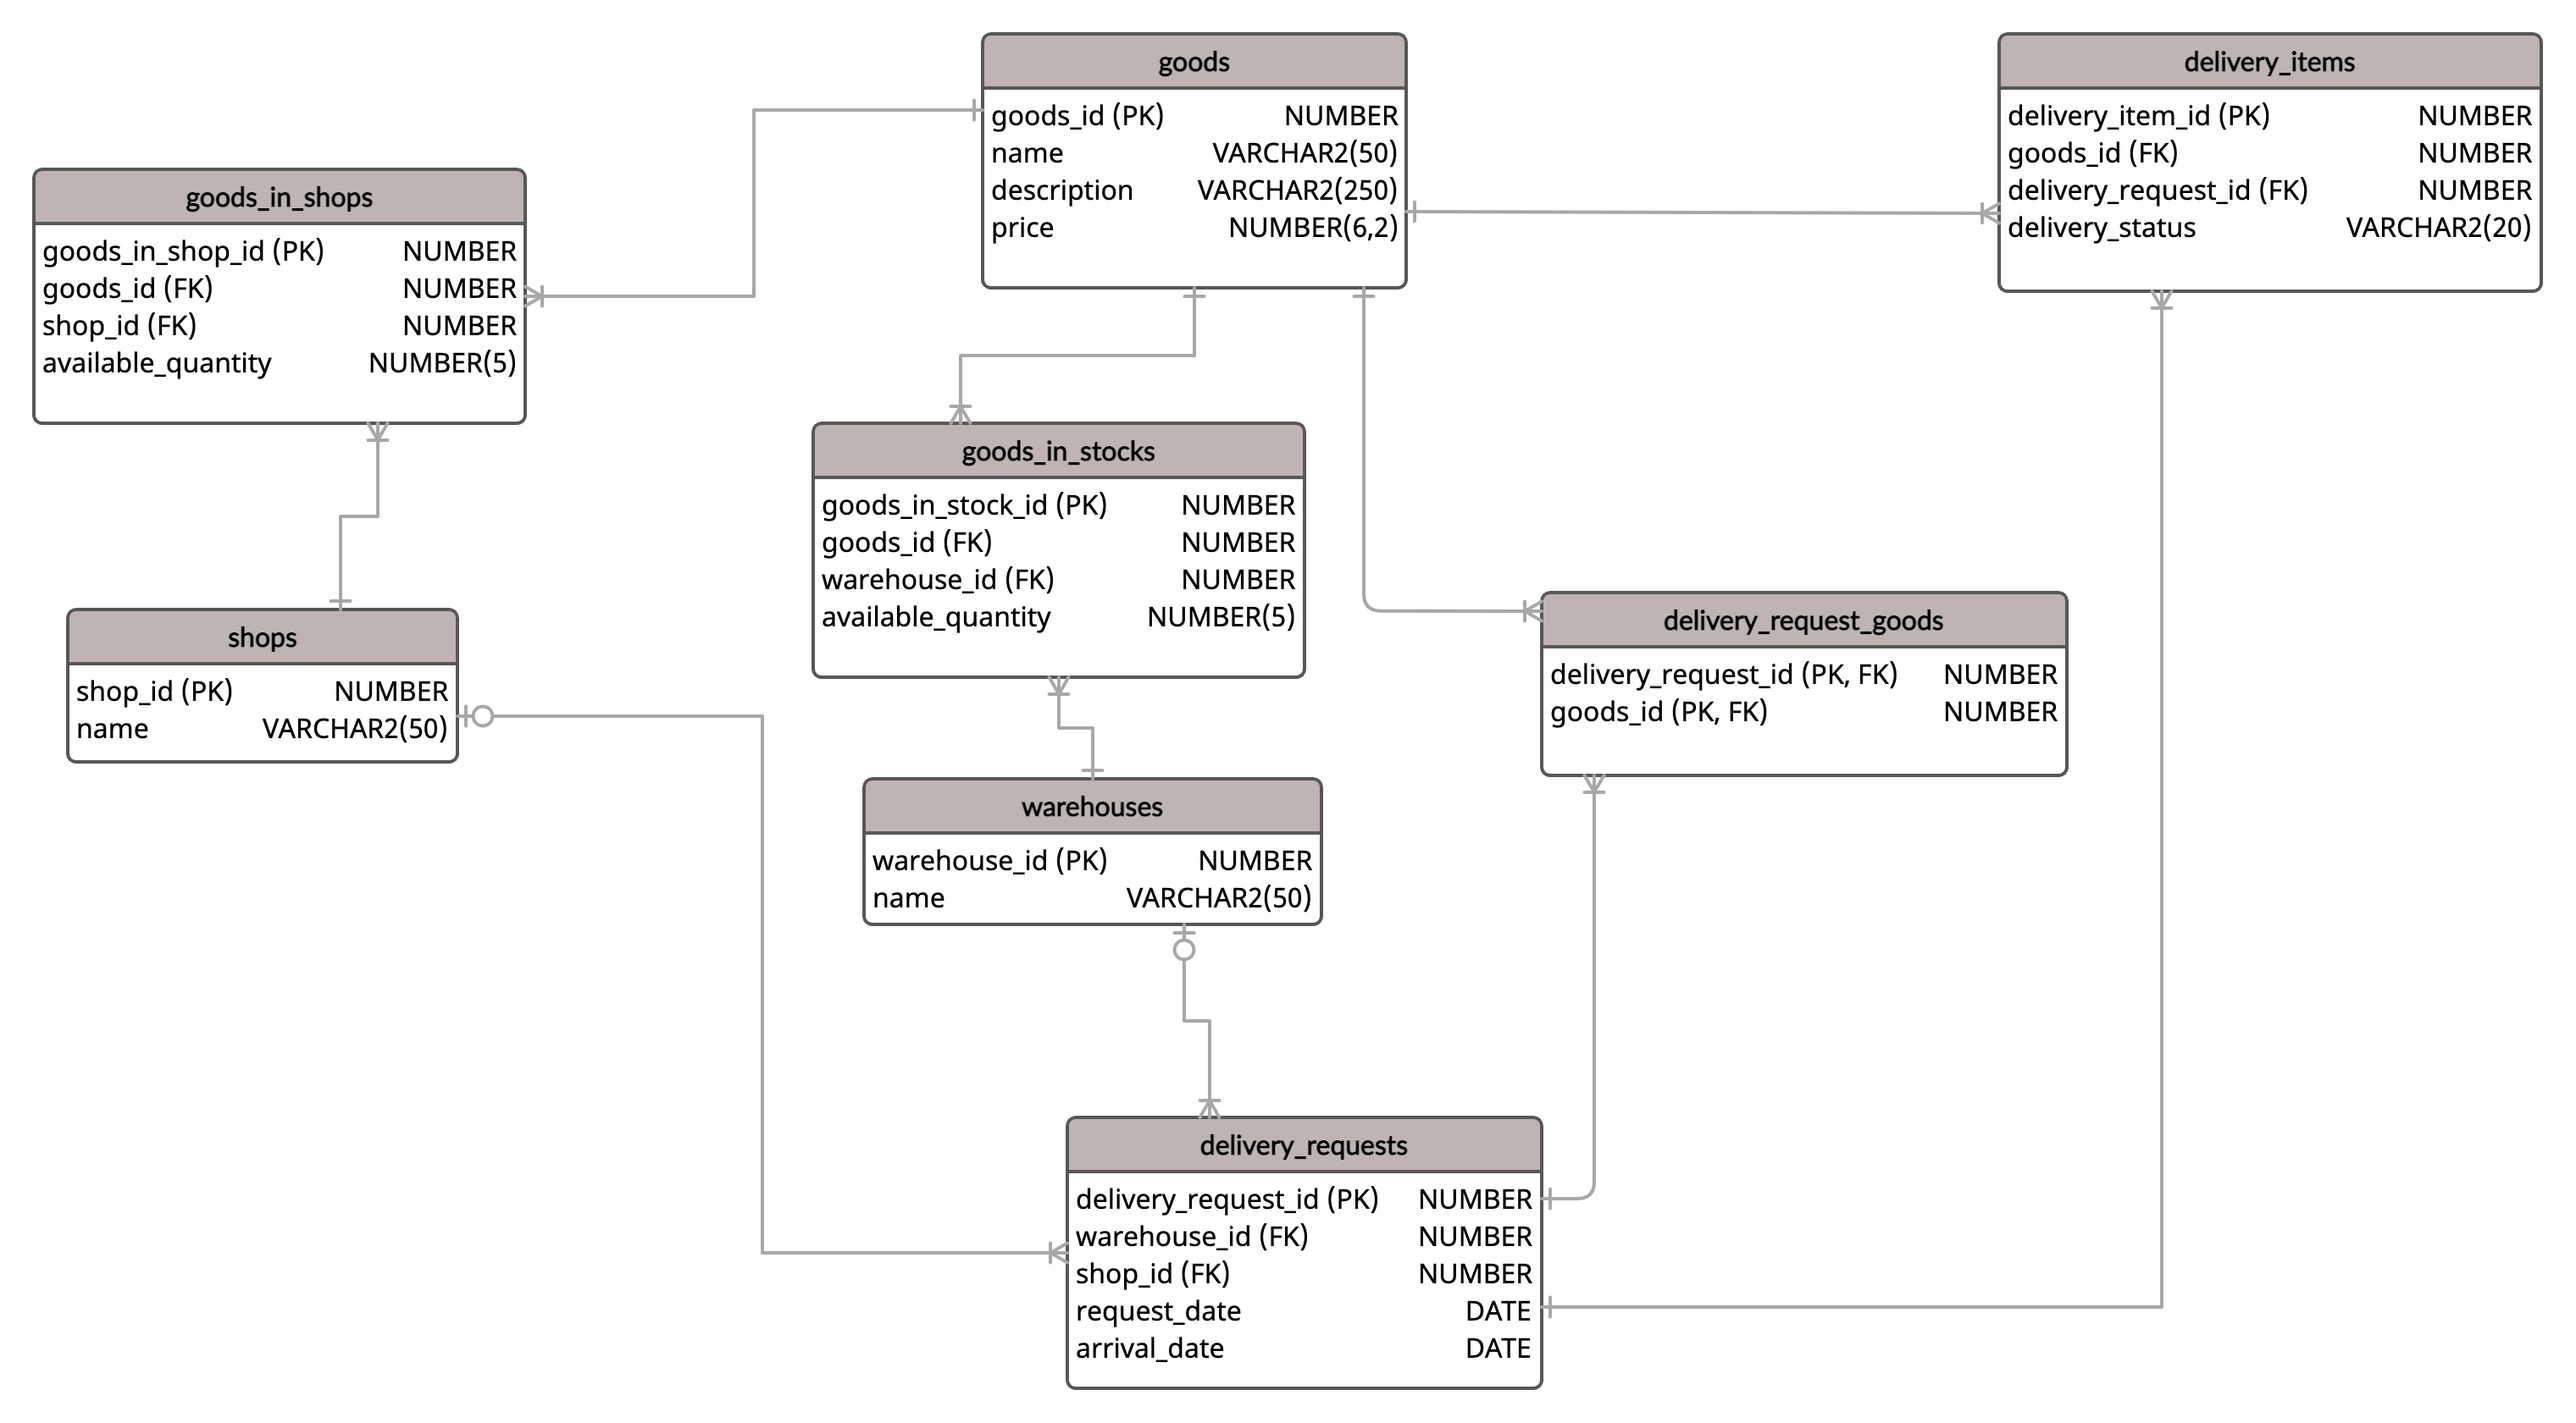
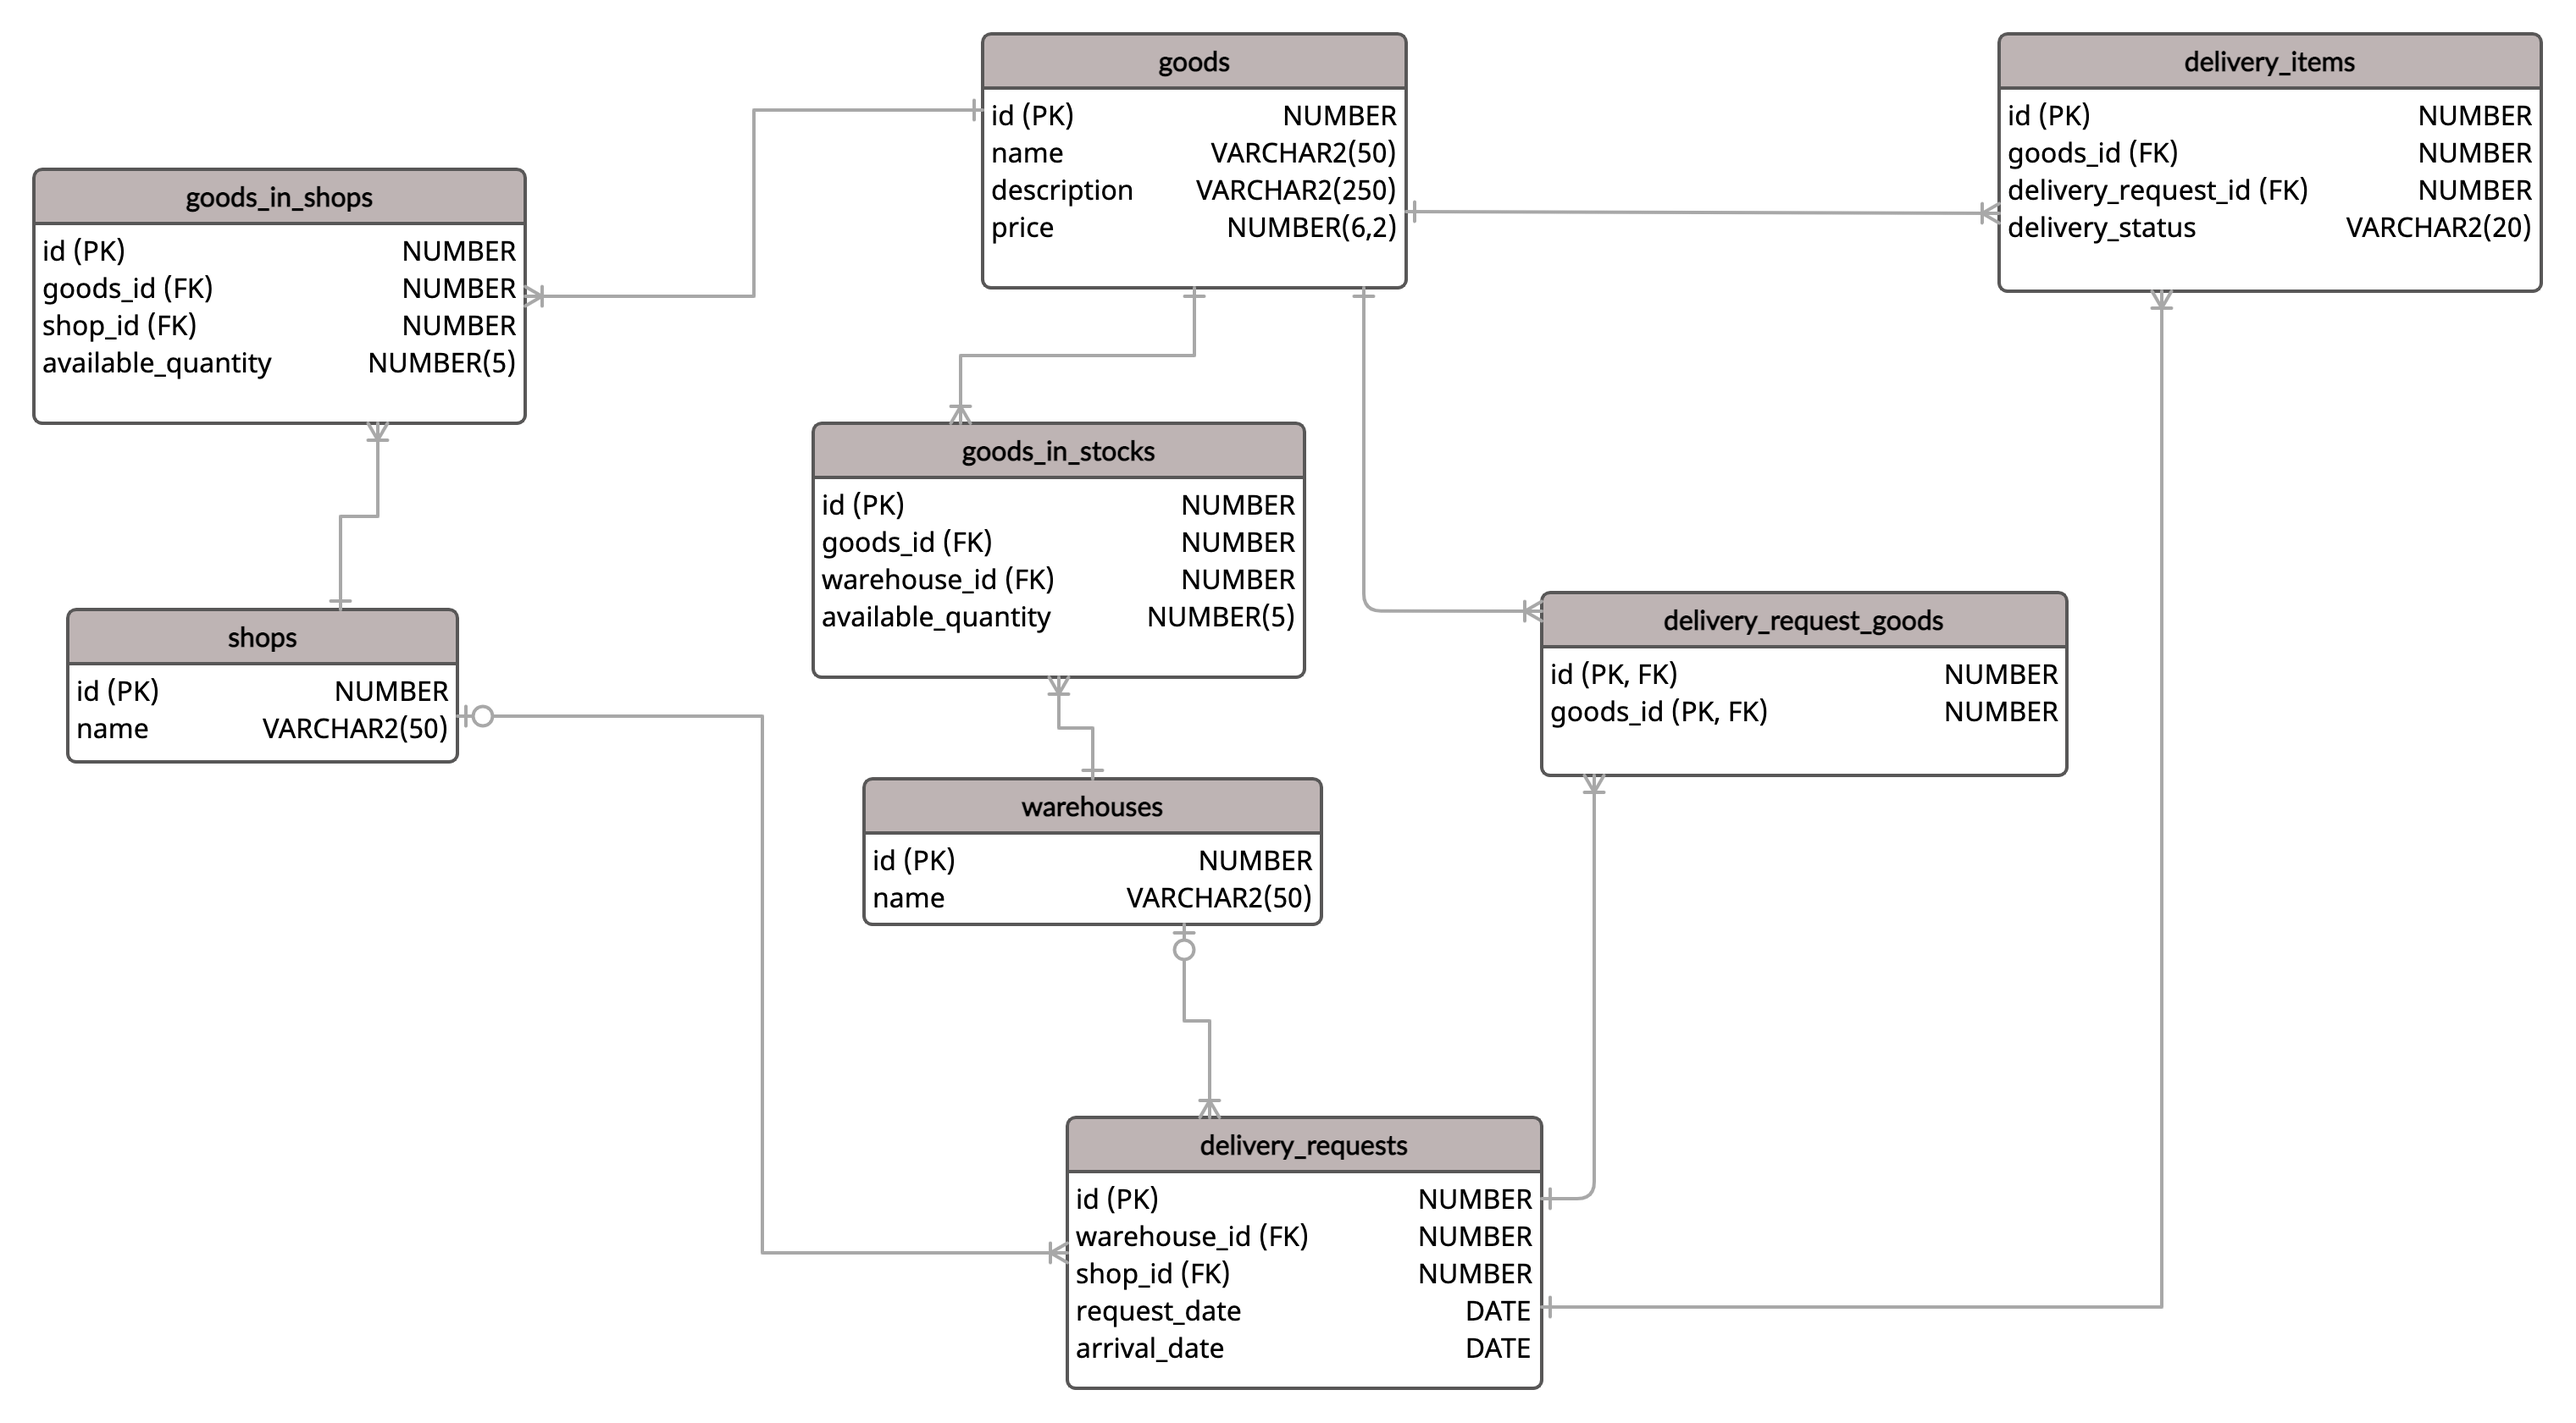
add cascade deletion and change primary keys name

diff --git a/backend/src/main/java/com/kpi/springlabs/backend/repository/jdbc/impl/DeliveryRequestRepositoryImpl.java b/backend/src/main/java/com/kpi/springlabs/backend/repository/jdbc/impl/DeliveryRequestRepositoryImpl.java
@@ -78,7 +78,7 @@ public class DeliveryRequestRepositoryImpl implements DeliveryRequestRepository 
     @Override
     public Optional<DeliveryRequest> getById(long deliveryRequestId) {
         LOG.debug("Getting delivery request by id: {}", deliveryRequestId);
-        String query = "SELECT * FROM delivery_requests WHERE delivery_request_id = ?";
+        String query = "SELECT * FROM delivery_requests WHERE id = ?";
 
         ResultSet resultSet = null;
         PreparedStatement statement = null;
@@ -185,7 +185,7 @@ public class DeliveryRequestRepositoryImpl implements DeliveryRequestRepository 
         try {
             LOG.debug("Updating delivery_requests");
             String query = "UPDATE delivery_requests SET warehouse_id = ?, shop_id = ?, request_date = ?, arrival_date = ? " +
-                    "WHERE delivery_request_id = ?";
+                    "WHERE id = ?";
             connection1 = jdbcTemplateUtils.getConnection();
             statement1 = connection1.prepareStatement(query);
 
@@ -248,7 +248,7 @@ public class DeliveryRequestRepositoryImpl implements DeliveryRequestRepository 
             statement1.executeUpdate();
             connection.commit();
 
-            statement2 = connection.prepareStatement("DELETE FROM delivery_requests WHERE delivery_request_id = ?");
+            statement2 = connection.prepareStatement("DELETE FROM delivery_requests WHERE id = ?");
             statement2.setLong(1, id);
             statement2.executeUpdate();
             connection.commit();
@@ -267,7 +267,7 @@ public class DeliveryRequestRepositoryImpl implements DeliveryRequestRepository 
         Connection connection = null;
         ResultSet resultSet = null;
         try {
-            String query = "SELECT * FROM delivery_requests WHERE delivery_request_id = ?";
+            String query = "SELECT * FROM delivery_requests WHERE id = ?";
             connection = jdbcTemplateUtils.getConnection();
             statement = connection.prepareStatement(query);
 

diff --git a/backend/src/main/java/com/kpi/springlabs/backend/repository/jdbc/impl/BaseRepositoryImpl.java b/backend/src/main/java/com/kpi/springlabs/backend/repository/jdbc/impl/BaseRepositoryImpl.java
@@ -22,8 +22,6 @@ public abstract class BaseRepositoryImpl<T extends BaseEntity> implements BaseRe
 
     protected abstract String getTableName();
 
-    protected abstract String getPrimaryKeyName();
-
     protected abstract T getMappedEntity(ResultSet resultSet) throws SQLException;
 
     protected abstract PreparedStatement getPreparedStatementForSqlOperation(T entity, SqlOperationType sqlOperationType) throws SQLException;
@@ -61,7 +59,7 @@ public abstract class BaseRepositoryImpl<T extends BaseEntity> implements BaseRe
     @Override
     public Optional<T> getById(long id) {
         LOG.debug("Getting element by id: {} in {}", id, this.getClass().getName());
-        String query = String.format("SELECT * FROM %s WHERE %s = ?", getTableName(), getPrimaryKeyName());
+        String query = String.format("SELECT * FROM %s WHERE id = ?", getTableName());
 
         ResultSet resultSet = null;
         PreparedStatement statement = null;
@@ -127,7 +125,7 @@ public abstract class BaseRepositoryImpl<T extends BaseEntity> implements BaseRe
     @Override
     public void delete(long id) {
         LOG.debug("Deleting element by id {} in {}", id, this.getClass().getName());
-        String query = String.format("DELETE FROM %s WHERE %s = ?", getTableName(), getPrimaryKeyName());
+        String query = String.format("DELETE FROM %s WHERE id = ?", getTableName());
 
         Connection connection = null;
         PreparedStatement statement = null;
@@ -153,7 +151,7 @@ public abstract class BaseRepositoryImpl<T extends BaseEntity> implements BaseRe
         Connection connection = null;
         ResultSet resultSet = null;
         try {
-            String query = String.format("SELECT * FROM %s WHERE %s = ?", getTableName(), getPrimaryKeyName());
+            String query = String.format("SELECT * FROM %s WHERE id = ?", getTableName());
             connection = jdbcTemplateUtils.getConnection();
             statement = connection.prepareStatement(query);
 

diff --git a/backend/src/main/java/com/kpi/springlabs/backend/repository/jdbc/impl/DeliveryItemRepository.java b/backend/src/main/java/com/kpi/springlabs/backend/repository/jdbc/impl/DeliveryItemRepository.java
@@ -35,11 +35,6 @@ public class DeliveryItemRepository extends BaseRepositoryImpl<DeliveryItem> {
     }
 
     @Override
-    protected String getPrimaryKeyName() {
-        return Constants.PrimaryKeys.DELIVERY_ITEM_ID;
-    }
-
-    @Override
     protected DeliveryItem getMappedEntity(ResultSet resultSet) throws SQLException {
         long id = resultSet.getLong(1);
         long goodsId = resultSet.getLong(2);
@@ -64,7 +59,7 @@ public class DeliveryItemRepository extends BaseRepositoryImpl<DeliveryItem> {
         if (SqlOperationType.INSERT == sqlOperationType) {
             query = "INSERT INTO delivery_items (goods_id, delivery_request_id, delivery_status) VALUES (?, ?, ?)";
         } else {
-            query = "UPDATE delivery_items SET goods_id = ?, delivery_request_id = ?, delivery_status = ? WHERE delivery_item_id = ?";
+            query = "UPDATE delivery_items SET goods_id = ?, delivery_request_id = ?, delivery_status = ? WHERE id = ?";
         }
 
         Connection connection = jdbcTemplateUtils.getConnection();

diff --git a/backend/src/main/java/com/kpi/springlabs/backend/repository/jdbc/impl/GoodsInStockRepositoryImpl.java b/backend/src/main/java/com/kpi/springlabs/backend/repository/jdbc/impl/GoodsInStockRepositoryImpl.java
@@ -34,11 +34,6 @@ public class GoodsInStockRepositoryImpl extends BaseRepositoryImpl<GoodsInStock>
     }
 
     @Override
-    protected String getPrimaryKeyName() {
-        return Constants.PrimaryKeys.GOODS_IN_STOCK_ID;
-    }
-
-    @Override
     protected GoodsInStock getMappedEntity(ResultSet resultSet) throws SQLException {
         long id = resultSet.getLong(1);
         long goodsId = resultSet.getLong(2);
@@ -63,7 +58,7 @@ public class GoodsInStockRepositoryImpl extends BaseRepositoryImpl<GoodsInStock>
         if (SqlOperationType.INSERT == sqlOperationType) {
             query = "INSERT INTO goods_in_stocks (goods_id, warehouse_id, available_quantity) VALUES (?, ?, ?)";
         } else {
-            query = "UPDATE goods_in_stocks SET goods_id = ?, warehouse_id = ?, available_quantity = ? WHERE goods_in_stock_id = ?";
+            query = "UPDATE goods_in_stocks SET goods_id = ?, warehouse_id = ?, available_quantity = ? WHERE id = ?";
         }
 
         Connection connection = jdbcTemplateUtils.getConnection();

diff --git a/backend/src/main/java/com/kpi/springlabs/backend/repository/jdbc/impl/GoodsInShopRepositoryImpl.java b/backend/src/main/java/com/kpi/springlabs/backend/repository/jdbc/impl/GoodsInShopRepositoryImpl.java
@@ -34,11 +34,6 @@ public class GoodsInShopRepositoryImpl extends BaseRepositoryImpl<GoodsInShop> i
     }
 
     @Override
-    protected String getPrimaryKeyName() {
-        return Constants.PrimaryKeys.GOODS_IN_SHOP_ID;
-    }
-
-    @Override
     protected GoodsInShop getMappedEntity(ResultSet resultSet) throws SQLException {
         long id = resultSet.getLong(1);
         long goodsId = resultSet.getLong(2);
@@ -63,7 +58,7 @@ public class GoodsInShopRepositoryImpl extends BaseRepositoryImpl<GoodsInShop> i
         if (SqlOperationType.INSERT == sqlOperationType) {
             query = "INSERT INTO goods_in_shops (goods_id, shop_id, available_quantity) VALUES (?, ?, ?)";
         } else {
-            query = "UPDATE goods_in_shops SET goods_id = ?, shop_id = ?, available_quantity = ? WHERE goods_in_shop_id = ?";
+            query = "UPDATE goods_in_shops SET goods_id = ?, shop_id = ?, available_quantity = ? WHERE id = ?";
         }
 
         Connection connection = jdbcTemplateUtils.getConnection();

diff --git a/backend/src/main/java/com/kpi/springlabs/backend/repository/jdbc/impl/GoodsRepositoryImpl.java b/backend/src/main/java/com/kpi/springlabs/backend/repository/jdbc/impl/GoodsRepositoryImpl.java
@@ -21,11 +21,6 @@ public class GoodsRepositoryImpl extends BaseRepositoryImpl<Goods> {
     }
 
     @Override
-    protected String getPrimaryKeyName() {
-        return Constants.PrimaryKeys.GOODS_ID;
-    }
-
-    @Override
     protected Goods getMappedEntity(ResultSet resultSet) throws SQLException {
         long id = resultSet.getLong(1);
         String name = resultSet.getString(2);
@@ -40,7 +35,7 @@ public class GoodsRepositoryImpl extends BaseRepositoryImpl<Goods> {
         if (SqlOperationType.INSERT == sqlOperationType) {
             query = "INSERT INTO goods (name, description, price) VALUES (?, ?, ?)";
         } else {
-            query = "UPDATE goods SET name = ?, description = ?, price = ? WHERE goods_id = ?";
+            query = "UPDATE goods SET name = ?, description = ?, price = ? WHERE id = ?";
         }
         Connection connection = jdbcTemplateUtils.getConnection();
         PreparedStatement statement = connection.prepareStatement(query);

diff --git a/backend/src/main/java/com/kpi/springlabs/backend/repository/jdbc/impl/WarehouseRepository.java b/backend/src/main/java/com/kpi/springlabs/backend/repository/jdbc/impl/WarehouseRepository.java
@@ -19,11 +19,6 @@ public class WarehouseRepository extends BaseRepositoryImpl<Warehouse> {
     }
 
     @Override
-    protected String getPrimaryKeyName() {
-        return Constants.PrimaryKeys.WAREHOUSE_ID;
-    }
-
-    @Override
     protected Warehouse getMappedEntity(ResultSet resultSet) throws SQLException {
         long id = resultSet.getLong(1);
         String name = resultSet.getString(2);
@@ -36,7 +31,7 @@ public class WarehouseRepository extends BaseRepositoryImpl<Warehouse> {
         if (SqlOperationType.INSERT == sqlOperationType) {
             query = "INSERT INTO warehouses (name) VALUES (?)";
         } else {
-            query = "UPDATE warehouses SET name = ? WHERE warehouse_id = ?";
+            query = "UPDATE warehouses SET name = ? WHERE id = ?";
         }
 
         Connection connection = jdbcTemplateUtils.getConnection();

diff --git a/backend/src/main/java/com/kpi/springlabs/backend/repository/jdbc/impl/ShopRepository.java b/backend/src/main/java/com/kpi/springlabs/backend/repository/jdbc/impl/ShopRepository.java
@@ -19,11 +19,6 @@ public class ShopRepository extends BaseRepositoryImpl<Shop> {
     }
 
     @Override
-    protected String getPrimaryKeyName() {
-        return Constants.PrimaryKeys.SHOP_ID;
-    }
-
-    @Override
     protected Shop getMappedEntity(ResultSet resultSet) throws SQLException {
         long id = resultSet.getLong(1);
         String name = resultSet.getString(2);
@@ -36,7 +31,7 @@ public class ShopRepository extends BaseRepositoryImpl<Shop> {
         if (SqlOperationType.INSERT == sqlOperationType) {
             query = "INSERT INTO shops (name) VALUES (?)";
         } else {
-            query = "UPDATE shops SET name = ? WHERE shop_id = ?";
+            query = "UPDATE shops SET name = ? WHERE id = ?";
         }
 
         Connection connection = jdbcTemplateUtils.getConnection();

diff --git a/backend/src/main/java/com/kpi/springlabs/backend/utils/Constants.java b/backend/src/main/java/com/kpi/springlabs/backend/utils/Constants.java
@@ -10,13 +10,4 @@ public interface Constants {
         String GOODS_IN_SHOPS = "goods_in_shops";
         String DELIVERY_ITEMS = "delivery_items";
     }
-
-    interface PrimaryKeys {
-        String GOODS_ID = "goods_id";
-        String SHOP_ID = "shop_id";
-        String WAREHOUSE_ID = "warehouse_id";
-        String GOODS_IN_STOCK_ID = "goods_in_stock_id";
-        String GOODS_IN_SHOP_ID = "goods_in_shop_id";
-        String DELIVERY_ITEM_ID = "delivery_item_id";
-    }
 }
